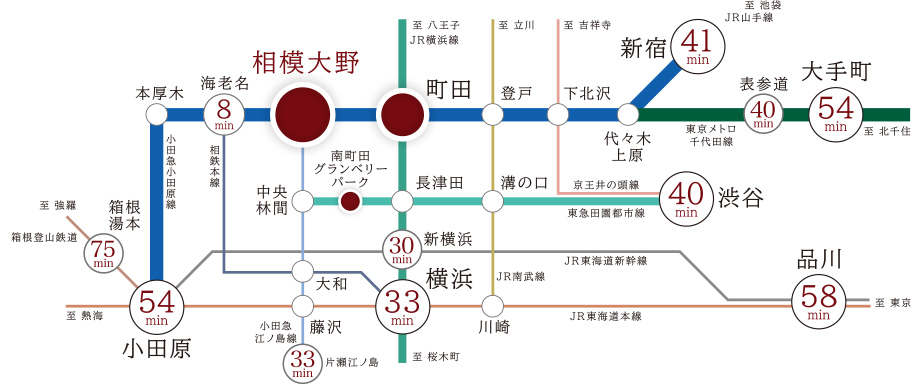
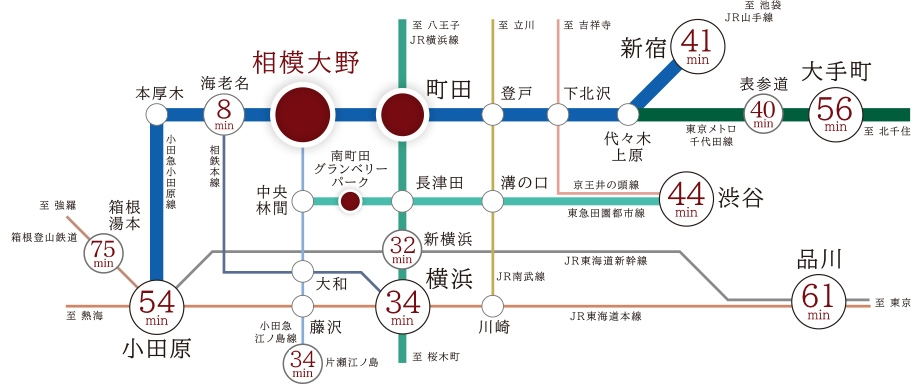
no message

diff --git a/access.html b/access.html
@@ -368,7 +368,7 @@
 
 
                                     <div class="stationBlock">
-                                        <span class="eki">「新宿」</span>駅<span class="dot">…</span>直通<span class="num">41</span>分<span class="commute">(日中平常時35分)</span>
+                                        <span class="eki">「新宿」</span>駅<span class="dot">…</span>直通<span class="num">41</span>分<span class="commute">(日中時35分)</span>
                                     </div>
                                     <p class="cap">※小田急小田原線快速急行利用 </p>
 
@@ -383,9 +383,9 @@
 
 
                                     <div class="stationBlock">
-                                        <span class="eki">「渋谷」</span>駅<span class="dot">…</span><span class="num">40</span>分<span class="commute">(日中平常時37分)</span>
+                                        <span class="eki">「渋谷」</span>駅<span class="dot">…</span><span class="num">44</span>分<span class="commute">(日中時37分)</span>
                                     </div>
-                                    <p class="cap">※小田急小田原線快速急行利用、「下北沢」駅より京王井の頭線急行利用 </p>
+                                    <p class="cap">※小田急小田原線快速急行利用、「下北沢」駅より京王井の頭線（日中時急行）利用 </p>
 
 
                                 </li>
@@ -398,7 +398,7 @@
 
 
                                     <div class="stationBlock">
-                                        <span class="eki">「表参道」</span>駅<span class="dot">…</span><span class="num">40</span>分<span class="commute">(日中平常時36分)</span>
+                                        <span class="eki">「表参道」</span>駅<span class="dot">…</span><span class="num">40</span>分<span class="commute">(日中時36分)</span>
                                     </div>
                                     <p class="cap">※小田急小田原線快速急行利用、「代々木上原」駅より東京メトロ千代田線利用 </p>
 
@@ -427,7 +427,7 @@
 
 
                                     <div class="stationBlock">
-                                        <span class="eki">「大手町」</span>駅<span class="dot">…</span><span class="num">54</span>分<span class="commute">(日中平常時50分)</span>
+                                        <span class="eki">「大手町」</span>駅<span class="dot">…</span><span class="num">56</span>分<span class="commute">(日中時50分)</span>
                                     </div>
                                     <p class="cap">※小田急小田原線快速急行利用、「代々木上原」駅より東京メトロ千代田線利用 </p>
 
@@ -442,7 +442,7 @@
 
 
                                     <div class="stationBlock">
-                                        <span class="eki">「横浜」</span>駅<span class="dot">…</span><span class="num">33</span>分<span class="commute">(日中平常時33分)</span>
+                                        <span class="eki">「横浜」</span>駅<span class="dot">…</span><span class="num">34</span>分<span class="commute">(日中時33分)</span>
                                     </div>
                                     <p class="cap">※小田急江ノ島線急行（日中時快速急行）利用、「大和」駅より相鉄本線特急利用 </p>
 
@@ -457,14 +457,14 @@
 
 
                                     <div class="stationBlock">
-                                        <span class="eki">「品川」</span>駅<span class="dot">…</span><span class="num">58</span>分<span class="commute">(日中平常時54分)</span>
+                                        <span class="eki">「品川」</span>駅<span class="dot">…</span><span class="num">61</span>分<span class="commute">(日中時60分)</span>
                                     </div>
-                                    <p class="cap">※小田急小田原線快速急行利用、「下北沢」駅より京王井の頭線急行利用、「渋谷」駅よりＪＲ山手線利用 </p>
+                                    <p class="cap">※小田急江ノ島線急行（日中時快速急行）利用、「大和」駅より相鉄本線特急乗換え、「武蔵小杉」駅よりＪＲ横須賀線乗換え</p>
 
 
                                 </li>
                             </ul>
-                            <p class="stationArea__cap top">※掲載の路線図内に記載の所要時間は、通勤時のもので乗換・待ち時間を含んでいます。時間帯により異なります。乗換え情報及び日中平常時の各駅所要時間は以下の通りです。「海老名」駅／8分（小田急小田原線急行利用）、「新横浜」駅／25分（小田急小田原線快速急行（日中時各停）利用、「町田」駅よりＪＲ横浜線（日中時快速）乗換え）、「横浜」駅／33分（小田急江ノ島線急行（日中時快速急行）利用、「大和」駅より相鉄本線特急乗換え）、「片瀬江ノ島」駅／31分（小田急江ノ島線急行（日中時快速急行）利用、「藤沢」駅より小田急江ノ島線（各停）乗換え）、「渋谷」駅／37分（小田急小田原線快速急行利用、「下北沢」駅より京王井の頭線急行乗換え）、「表参道」駅／36分（小田急小田原線快速急行利用、「代々木上原」駅より東京メトロ千代田線乗換え）、「新宿」駅／35分（小田急小田原線快速急行利用）、「大手町」駅／50分（小田急小田原線快速急行利用、「代々木上原」駅より東京メトロ千代田線乗換え）、「品川」駅／54分（小田急小田原線快速急行利用、「下北沢」駅より京王井の頭線急行乗換え、「渋谷」駅よりＪＲ山手線乗換え）、「小田原」駅／45分（小田急小田原線急行（日中時「海老名」駅より特急乗換え）利用※日中時「海老名」駅からは乗車券のほか指定席料金がかかります。）、「箱根湯本」駅／59分（小田急小田原線急行利用、「小田原」駅より箱根登山鉄道乗換え（日中時「伊勢原」駅より特急乗換え）※日中時「伊勢原」駅からは乗車券のほか指定席料金がかかります）。通勤時は7：30～9：00、日中平常時は11：00～16：00に目的駅に到着する電車を対象としています。※掲載の情報は2022年3月現在のダイヤによるものです（「駅すぱあと」調べ）。なお、掲載の路線図は一部路線・駅等を抜粋しております。</p>
+<!--                            <p class="stationArea__cap top">※掲載の路線図内に記載の所要時間は、通勤時のもので乗換・待ち時間を含んでいます。時間帯により異なります。乗換え情報及び日中平常時の各駅所要時間は以下の通りです。「海老名」駅／8分（小田急小田原線急行利用）、「新横浜」駅／25分（小田急小田原線快速急行（日中時各停）利用、「町田」駅よりＪＲ横浜線（日中時快速）乗換え）、「横浜」駅／33分（小田急江ノ島線急行（日中時快速急行）利用、「大和」駅より相鉄本線特急乗換え）、「片瀬江ノ島」駅／31分（小田急江ノ島線急行（日中時快速急行）利用、「藤沢」駅より小田急江ノ島線（各停）乗換え）、「渋谷」駅／37分（小田急小田原線快速急行利用、「下北沢」駅より京王井の頭線急行乗換え）、「表参道」駅／36分（小田急小田原線快速急行利用、「代々木上原」駅より東京メトロ千代田線乗換え）、「新宿」駅／35分（小田急小田原線快速急行利用）、「大手町」駅／50分（小田急小田原線快速急行利用、「代々木上原」駅より東京メトロ千代田線乗換え）、「品川」駅／54分（小田急小田原線快速急行利用、「下北沢」駅より京王井の頭線急行乗換え、「渋谷」駅よりＪＲ山手線乗換え）、「小田原」駅／45分（小田急小田原線急行（日中時「海老名」駅より特急乗換え）利用※日中時「海老名」駅からは乗車券のほか指定席料金がかかります。）、「箱根湯本」駅／59分（小田急小田原線急行利用、「小田原」駅より箱根登山鉄道乗換え（日中時「伊勢原」駅より特急乗換え）※日中時「伊勢原」駅からは乗車券のほか指定席料金がかかります）。通勤時は7：30～9：00、日中平常時は11：00～16：00に目的駅に到着する電車を対象としています。※掲載の情報は2022年3月現在のダイヤによるものです（「駅すぱあと」調べ）。なお、掲載の路線図は一部路線・駅等を抜粋しております。</p>-->
                         </div>
                 </div>
                 </section>
@@ -497,7 +497,7 @@
 
 
                                     <div class="stationBlock">
-                                        <span class="eki">「片瀬江ノ島」</span>駅<span class="dot">…</span>直通<span class="num">33</span>分<br><span class="commute">(日中平常時31分)</span>
+                                        <span class="eki">「片瀬江ノ島」</span>駅<span class="dot">…</span>直通<span class="num">34</span>分<br><span class="commute">(日中時31分)</span>
                                     </div>
                                     <p class="cap">※小田急江ノ島線急行（日中時快速急行）利用、「藤沢」駅より小田急江ノ島線（各停）利用 </p>
 
@@ -512,7 +512,7 @@
 
 
                                     <div class="stationBlock">
-                                        <span class="eki">「箱根湯本」</span>駅<span class="dot">…</span><span class="num">75</span>分<span class="commute">(日中平常時59分)</span>
+                                        <span class="eki">「箱根湯本」</span>駅<span class="dot">…</span><span class="num">75</span>分<span class="commute">(日中時59分)</span>
                                     </div>
                                     <p class="cap">※小田急小田原線急行利用、「小田原」駅より箱根登山鉄道利用（日中時「伊勢原」駅より特急利用）※日中時「伊勢原」駅からは乗車券のほか指定席料金がかかります。 </p>
 
@@ -527,9 +527,9 @@
 
 
                                     <div class="stationBlock">
-                                        <span class="eki">「新横浜」</span>駅<span class="dot">…</span><span class="num">30</span>分<span class="commute">(日中平常時25分)</span>
+                                        <span class="eki">「新横浜」</span>駅<span class="dot">…</span><span class="num">32</span>分<span class="commute">(日中時28分)</span>
                                     </div>
-                                    <p class="cap">※小田急小田原線快速急行（日中時各停）利用、「町田」駅よりＪＲ横浜線（日中時快速）利用 </p>
+                                    <p class="cap">※小田急小田原線快速急行（日中時急行）利用、「町田」駅よりＪＲ横浜線（日中時快速）利用 </p>
 
 
                                 </li>
@@ -662,7 +662,7 @@
     <div class="summaryArea">
         <div class="wrap">
 
-            <p class="footerCap"><!--※掲載の所要時間は、乗換、待ち時間を含んでいます。また所要時間は通勤時のものです。（）内は日中平常時のものとなり、時間帯により異なります。<br>※2022年3月 現在のダイヤによるものです。「駅すぱあと」調べ。<br>-->※掲載の写真はすべてイメージフォトです。</p>
+            <p class="footerCap">※カーアクセスにおける所要時間の表示は、交通事情等により異なる場合があります。※リムジンバスの運行状況は、交通機関ホームページにてご利用前にご確認ください。掲載の情報は2022年3月現在のものです。<br>※掲載の写真はすべてイメージフォトです。</p>
 
 
             <div class="summary">
